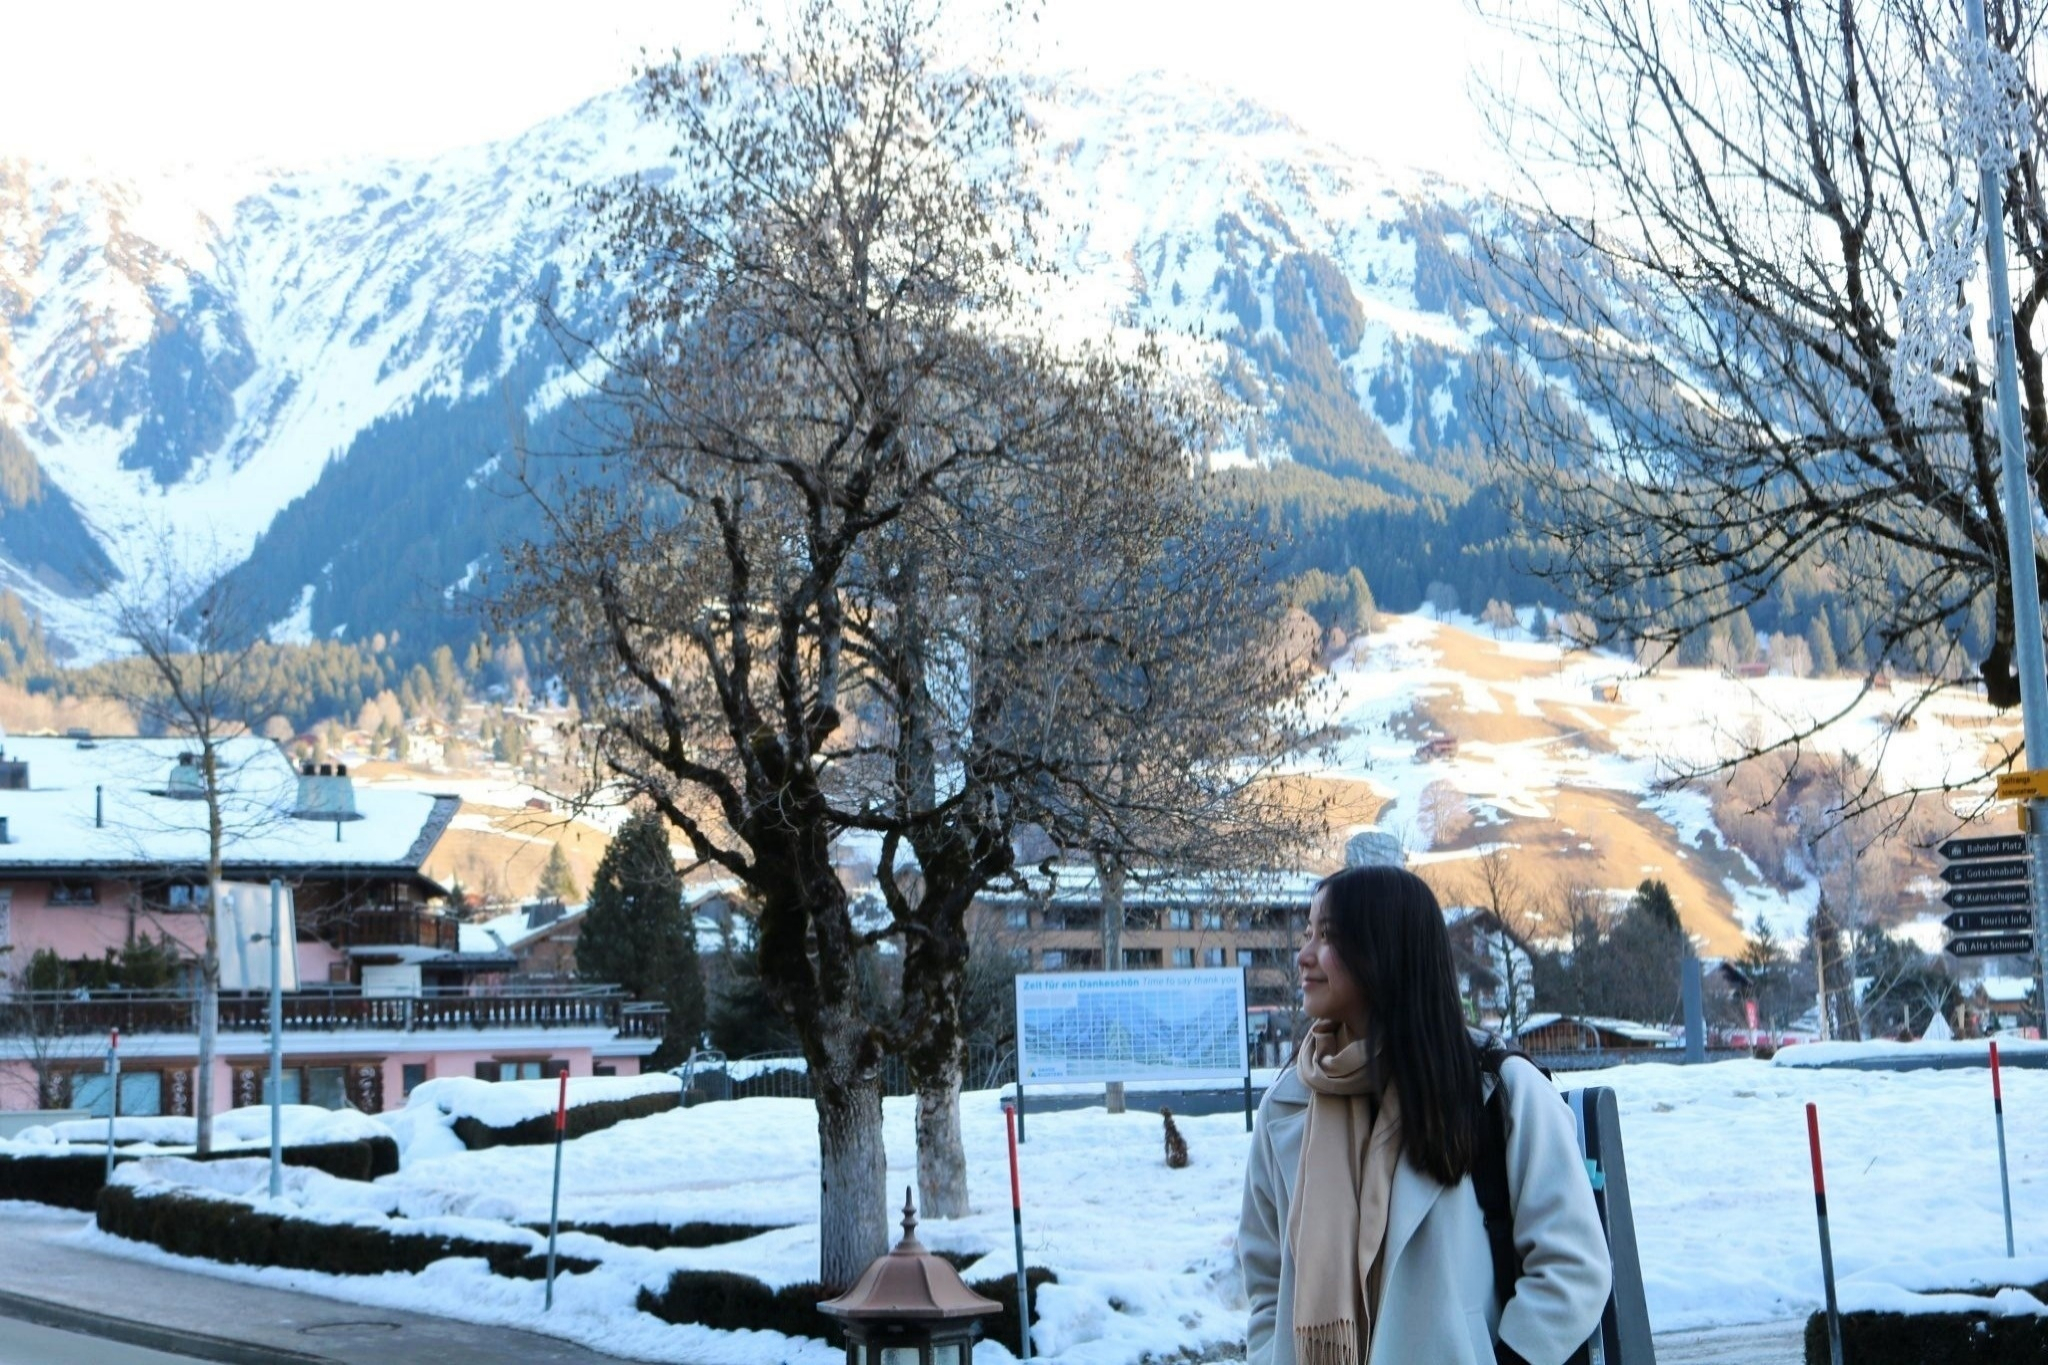
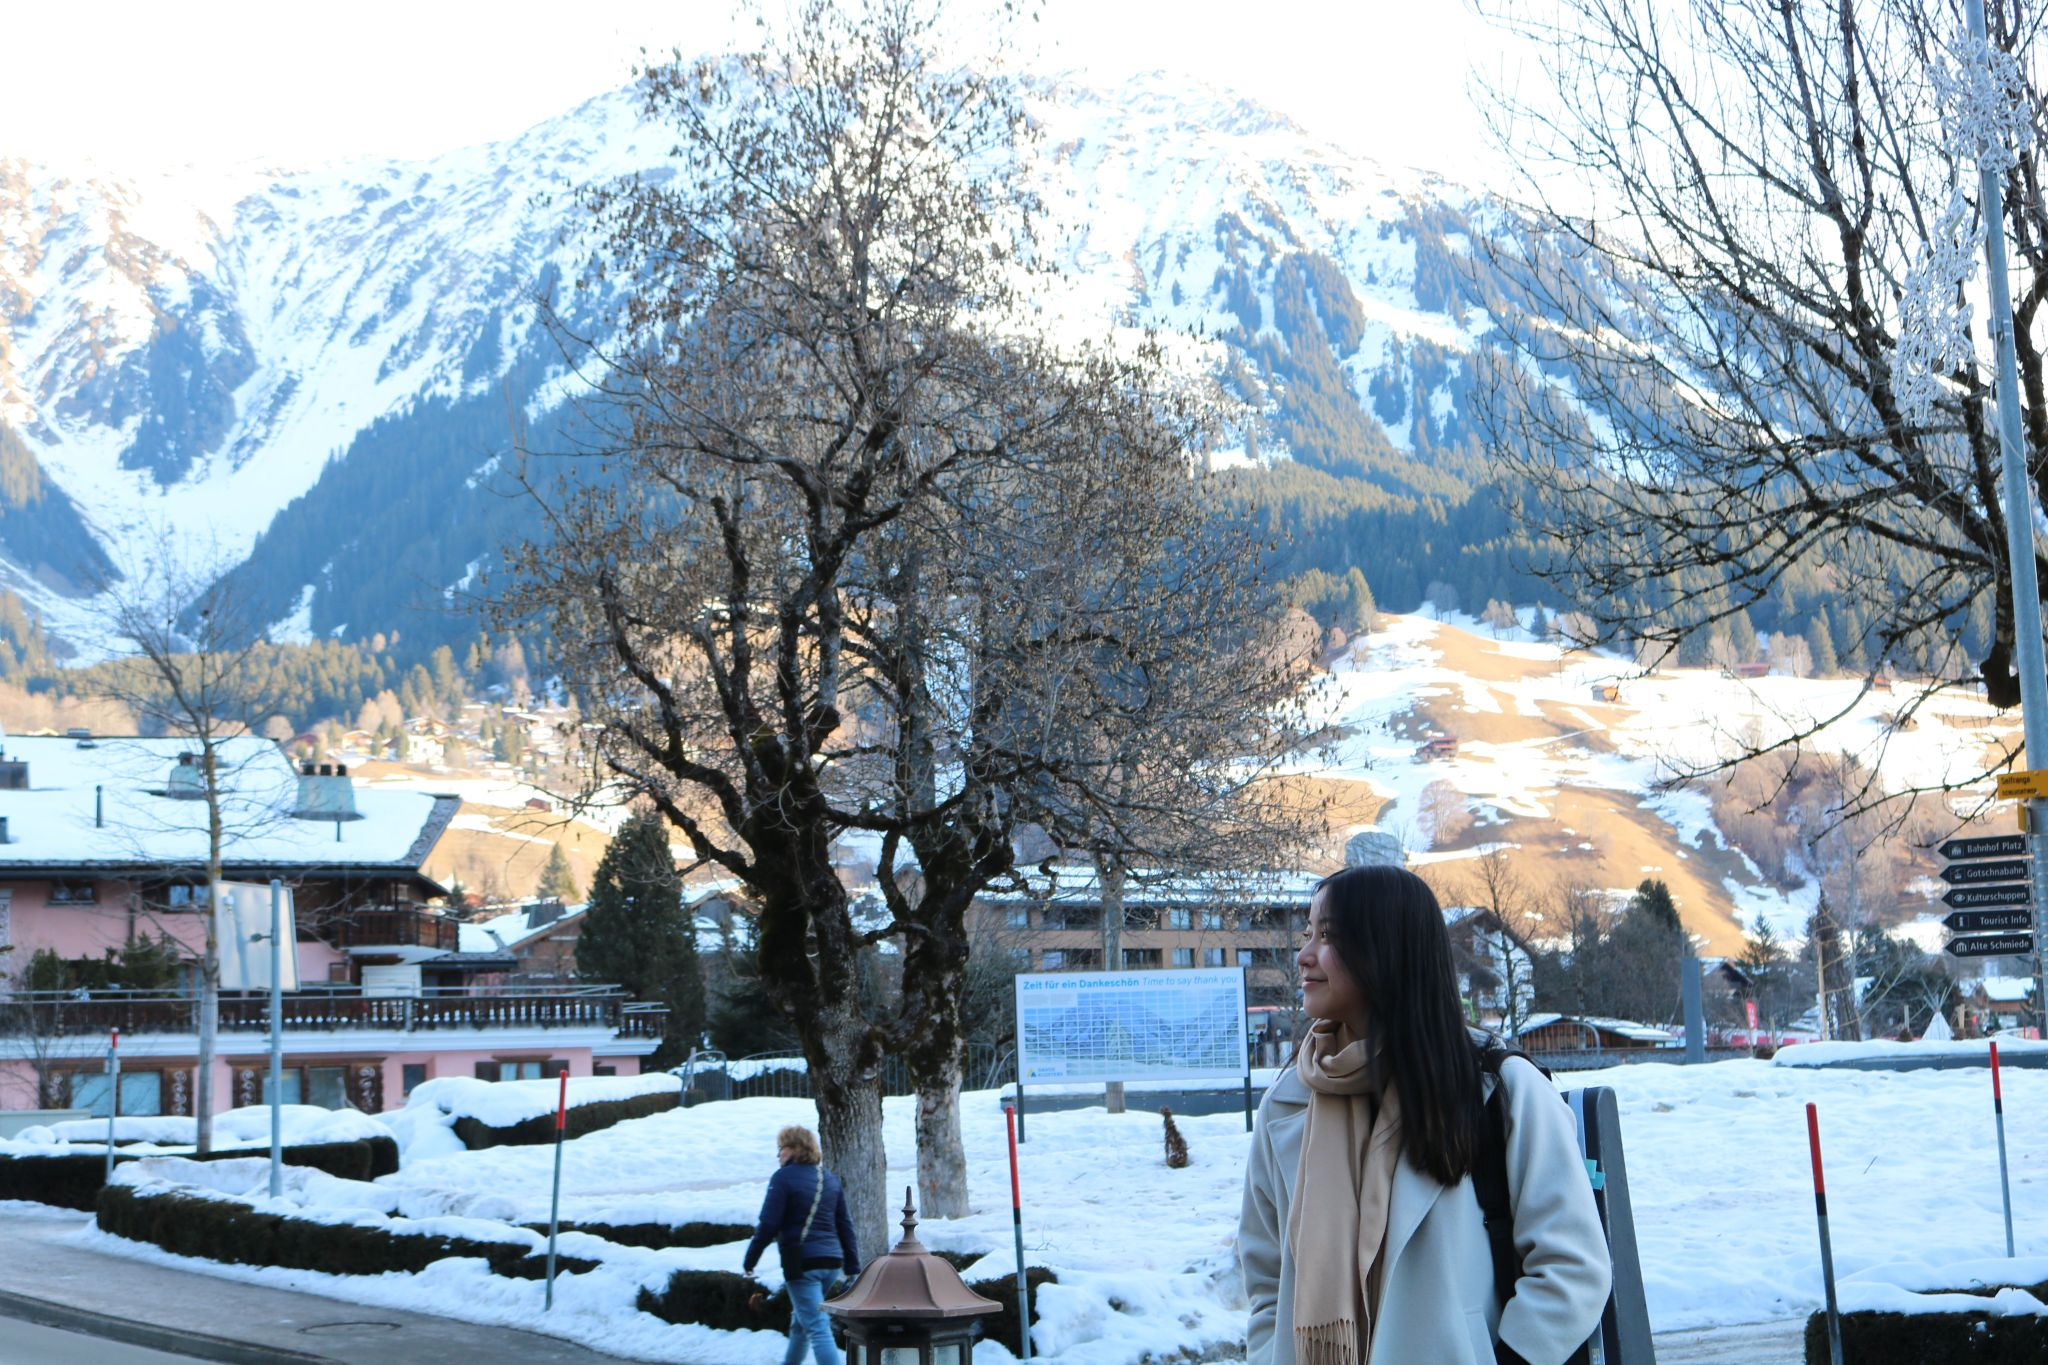
Fixes

Changed region(s): [[0.3438, 0.8308, 0.4375, 1.0], [0.25, 0.8923, 0.2812, 0.9231], [0.0625, 0.8308, 0.0938, 0.8615]]

diff --git a/index.html b/index.html
@@ -139,9 +139,9 @@
       <p>As an orchestral musician, Fiona served as Concertmaster of the Queensland Conservatorium Symphony Orchestra for Strauss' <em>Ein Heldenleben</em> — one of the most demanding concertmaster solos in the repertoire — and twice led the Australian Youth Orchestra's National Music Camp.</p>
     </div>
     <div class="g-stack">
-      <figure class="reveal"><img class="parallax" src="assets/gallery-1a.jpg" alt="" /></figure>
-      <figure class="reveal" data-delay="2"><img class="parallax" src="assets/gallery-1c.png" alt="" /></figure>
-      <figure class="reveal" data-delay="1"><img class="parallax" src="assets/gallery-1d.jpg" alt="" /></figure>
+      <figure class="reveal" style="aspect-ratio: 1485 / 2226"><img class="parallax" src="assets/gallery-1a.jpg" alt="" /></figure>
+      <figure class="reveal" data-delay="2" style="aspect-ratio: 1624 / 1422"><img class="parallax" src="assets/gallery-1c.png" alt="" /></figure>
+      <figure class="reveal" data-delay="1" style="aspect-ratio: 1170 / 1191"><img class="parallax" src="assets/gallery-1d.jpg" alt="" /></figure>
     </div>
   </div>
 </section>
@@ -155,9 +155,9 @@
       <p>Fiona is a founding member of the Artamidae String Quartet, winner of the 4MBS Chamber Music Prize. She has taken masterclasses with the Emerson, Australian, Borodin, Dover and Goldner Quartets — and with Ray Chen — and performs with Ensemble Q at the Queensland Conservatorium.</p>
     </div>
     <div class="g-stack">
-      <figure class="reveal"><img class="parallax" src="assets/gallery-2a.jpg" alt="" /></figure>
-      <figure class="reveal" data-delay="1"><img class="parallax" src="assets/gallery-2b.jpg" alt="" /></figure>
-      <figure class="reveal" data-delay="1"><img class="parallax" src="assets/gallery-2d.jpg" alt="" /></figure>
+      <figure class="reveal" style="aspect-ratio: 1280 / 1705"><img class="parallax" src="assets/gallery-2a.jpg" alt="" /></figure>
+      <figure class="reveal" data-delay="1" style="aspect-ratio: 1386 / 1646"><img class="parallax" src="assets/gallery-2b.jpg" alt="" /></figure>
+      <figure class="reveal" data-delay="1" style="aspect-ratio: 1170 / 1177"><img class="parallax" src="assets/gallery-2d.jpg" alt="" /></figure>
     </div>
   </div>
 </section>
@@ -211,7 +211,7 @@
       <h2>Get in touch</h2>
       <p class="lead">For engagements, collaborations and enquiries — I'd love to hear from you.</p>
       <ul class="contact-meta">
-        <li><span>Based in</span>Sydney, Australia · available worldwide</li>
+        <li><span>Based in</span>Sydney, Australia</li>
         <li><span>Performs</span>Soloist · chamber · orchestral</li>
       </ul>
       <div class="socials">

diff --git a/style.css b/style.css
@@ -146,7 +146,7 @@
   .nav-menu a:hover { color: var(--mute); }
   .nav-menu a:hover::after { transform: scaleX(1); }
   .nav-logo { justify-self: center; }
-  .nav-logo img { width: 116px; transition: opacity var(--dur-fast); }
+  .nav-logo img { width: 138px; transition: opacity var(--dur-fast); }
   .nav-logo img:hover { opacity: 0.75; }
   .nav-right { justify-self: end; display: flex; align-items: center; gap: var(--space-6); }
   .socials { display: flex; align-items: center; gap: var(--space-5); }
@@ -264,7 +264,9 @@
   .g-sticky p { color: rgba(255,255,255,0.82); max-width: 48ch; margin: 0 auto; }
   .g-stack { display: flex; flex-direction: column; gap: var(--block-gap); }
   .g-stack figure { overflow: hidden; transition: box-shadow 0.5s var(--ease-soft); }
-  .g-stack img { display: block; width: 100%; height: auto; }
+  .g-stack figure.reveal { transform: translateY(70px); transition: opacity 1.5s var(--ease-soft), transform 1.5s var(--ease-soft), box-shadow 0.5s var(--ease-soft); }
+  .g-stack figure.reveal.in { transform: none; }
+  .g-stack img { display: block; width: 100%; height: 100%; object-fit: cover; }
   .g-stack figure:hover { box-shadow: 0 0 0 12px var(--ink), 0 0 0 13px var(--white-40); }
 
   /* ============================== TRIO ============================== */
@@ -289,7 +291,7 @@
   .press-thumb img { width: 100%; height: 100%; object-fit: cover; }
 
   /* ============================== CONTACT ============================== */
-  .contact { position: relative; min-height: 920px; display: flex; align-items: center; padding-block: clamp(56px, 6vw, 88px);
+  .contact { position: relative; min-height: 1080px; display: flex; align-items: center; padding-block: clamp(72px, 7vw, 110px);
     background: linear-gradient(rgba(18,18,18,0.42), rgba(18,18,18,0.62)), url('assets/contact-bg.jpg') 78% 72% / cover no-repeat; }
   .contact-card { background: rgba(20,20,20,0.80); backdrop-filter: blur(16px); border: 1px solid var(--white-08);
     border-radius: var(--radius-card); padding: clamp(32px, 4vw, 56px); width: min(920px, 92%);
@@ -345,6 +347,7 @@
     .nav-toggle { display: block; }
     .nav-inner { display: flex; justify-content: space-between; align-items: center; }
     .nav-logo { justify-self: auto; }
+    .nav-logo img { width: 110px; }
     .hero-photo { background-position: 26% 28%; }
     .bio, .gallery, .press, .perf-row, .contact-card, .field-row { grid-template-columns: 1fr; }
     .gallery.rev .g-sticky { order: 0; }